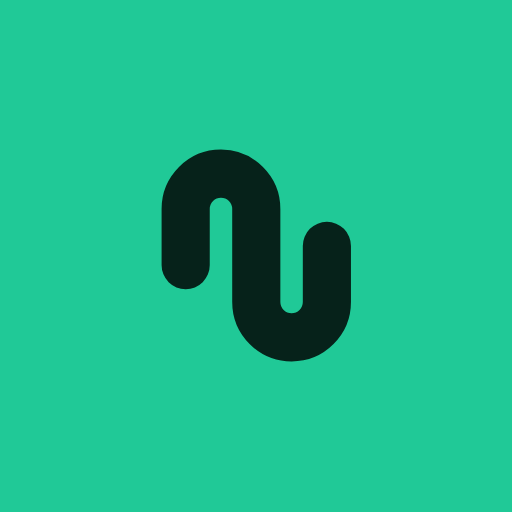
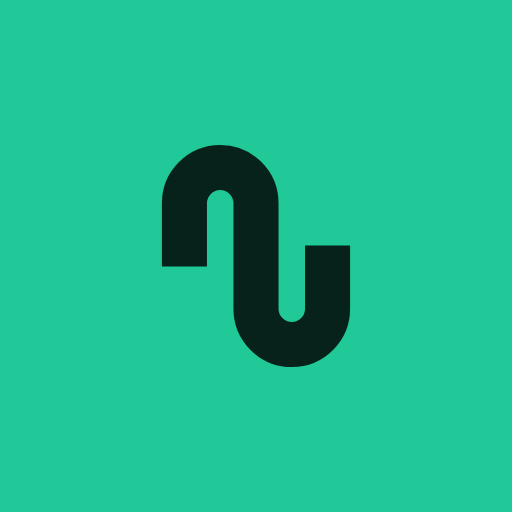
feat(brand): the stride mark at weight 260 with flat terminals
The mark becomes the falling wave of mark-nu-bold.html at 260/1000 em
with flat terminals, like Momo Trust Display's own, drawn in the font's
units (viewBox 1106 × 1300). packages/core and logo-mark.svg carry the
new geometry; a script (scripts/brand_icons.py) renders every icon from
it with headless Chrome. The web keeps the dark mark on the green; the
Android launcher icon and its adaptive layers take a white mark on the
green, and the splash a white mark on #111.

diff --git a/packages/core/src/brand/mark.ts b/packages/core/src/brand/mark.ts
@@ -1,21 +1,26 @@
 /**
  * The Zankup mark (docs/brand/README.md, section 2): the stride. The n and the u of the wordmark drawn as one
  * line that climbs, arches over, drops down the shared stem and arches back up: a stride (zancada), or a route
- * out and back. Built on the Momo Trust Display geometry at a heavier weight, with round terminals; one colour,
+ * out and back. Built on the Momo Trust Display geometry (font units: stems to the x-height, 206-unit arches) at
+weight 260/1000 em, with flat terminals like the typeface's; one colour,
  * it always takes the theme's foreground (`currentColor`). The single source for the PWA (CSS mask or inline
  * SVG) and the Android app (SVG path data).
  *
  * Kept identical to docs/brand/assets/logo-mark.svg by a test.
  */
 
-export const MARK_VIEWBOX = { width: 120, height: 134 } as const;
+export const MARK_VIEWBOX = { width: 1106, height: 1300 } as const;
 
-/** Visual bounds inside the viewBox: one unit of margin on every side, so the mark is centred on the viewBox centre (60, 67). */
-export const MARK_BOUNDS = { minX: 1, minY: 1, maxX: 119, maxY: 133 } as const;
+/** Visual bounds inside the viewBox: ten units of margin on every side, so the mark is centred on the viewBox centre (553, 650). */
+export const MARK_BOUNDS = { minX: 10, minY: 10, maxX: 1096, maxY: 1290 } as const;
 
 export const MARK_SHAPES = {
   /** One stroke: left stem up, arch over (the n), shared stem down, arch under (the u), right stem up. */
-  path: { d: 'M16 73 V38 A22 22 0 0 1 60 38 V96 A22 22 0 0 0 104 96 V61', strokeWidth: 30 },
+  path: {
+    d: 'M140 710 V346 A206 206 0 0 1 553 346 V954 A206 206 0 0 0 966 954 V590',
+    strokeWidth: 260,
+    linecap: 'butt',
+  },
 } as const;
 
 /** The mark as an SVG document in one colour (default `currentColor`). */
@@ -25,7 +30,7 @@ export function markSvg(color = 'currentColor', label = 'Zankup'): string {
     `<svg xmlns="http://www.w3.org/2000/svg" viewBox="0 0 ${MARK_VIEWBOX.width} ${MARK_VIEWBOX.height}"` +
     ` role="img" aria-label="${label}">` +
     `<path d="${path.d}" fill="none" stroke="${color}" stroke-width="${path.strokeWidth}"` +
-    ` stroke-linecap="round" stroke-linejoin="round"/>` +
+    ` stroke-linecap="${path.linecap}"/>` +
     `</svg>`
   );
 }

diff --git a/packages/core/src/brand/brand.test.ts b/packages/core/src/brand/brand.test.ts
@@ -3,7 +3,7 @@ import { describe, expect, it } from 'vitest';
 import source from '../../../../docs/brand/assets/logo-mark.svg?raw';
 import wordmarkSource from '../../../../docs/brand/assets/wordmark.svg?raw';
 import { themes, THEMES } from '../tokens';
-import { MARK_SHAPES, markMaskUrl, markSvg } from './mark';
+import { MARK_SHAPES, MARK_VIEWBOX, markMaskUrl, markSvg } from './mark';
 import { WORDMARK_PATH, WORDMARK_VIEWBOX, wordmarkSvg } from './wordmark';
 
 const attrs = (tag: string, from = source) => {
@@ -30,7 +30,8 @@ describe('brand mark', () => {
     const path = attrs('path');
     expect(path.d).toBe(MARK_SHAPES.path.d);
     expect(Number(path['stroke-width'])).toBe(MARK_SHAPES.path.strokeWidth);
-    expect(path['stroke-linecap']).toBe('round');
+    expect(path['stroke-linecap']).toBe(MARK_SHAPES.path.linecap);
+    expect(source).toContain(`viewBox="0 0 ${MARK_VIEWBOX.width} ${MARK_VIEWBOX.height}"`);
   });
 
   it('is one colour and can be used as a CSS mask', () => {

diff --git a/scripts/brand_icons.py b/scripts/brand_icons.py
@@ -1,0 +1,116 @@
+"""Renders every icon of the brand from the mark's geometry (docs/brand/README.md, section 6).
+
+The geometry comes from packages/core/src/brand/mark.ts (MARK_VIEWBOX and MARK_SHAPES), so the icons never
+drift from the mark the apps draw. PNGs are rendered with headless Chrome, as before; run it whenever the
+mark changes instead of editing the images:
+
+    python3 scripts/brand_icons.py
+"""
+
+from __future__ import annotations
+
+import re
+import subprocess
+import tempfile
+from pathlib import Path
+
+ROOT = Path(__file__).resolve().parent.parent
+MARK_TS = (ROOT / "packages/core/src/brand/mark.ts").read_text()
+
+GREEN = "#20c997"  # dark-theme accent: the icon background
+DARK = "#06221a"  # its accentFg: the mark on the web's icons
+WHITE = "#ffffff"  # the mark on the Android app's icons and splash
+
+WIDTH, HEIGHT = (
+    float(n) for n in re.search(r"MARK_VIEWBOX = \{ width: (\d+), height: (\d+) \}", MARK_TS).groups()
+)
+PATH_D = re.search(r"d: '([^']+)'", MARK_TS).group(1)
+STROKE = re.search(r"strokeWidth: (\d+)", MARK_TS).group(1)
+CAP = re.search(r"linecap: '(\w+)'", MARK_TS).group(1)
+
+
+def mark(color: str, size: float, height: float) -> str:
+    """The mark `height` px high (its viewBox, margin included), centred on a `size` canvas."""
+    scale = height / HEIGHT
+    x, y = (size - WIDTH * scale) / 2, (size - height) / 2
+    return (
+        f'<g transform="translate({x:.3f} {y:.3f}) scale({scale:.6f})">'
+        f'<path d="{PATH_D}" fill="none" stroke="{color}" stroke-width="{STROKE}" stroke-linecap="{CAP}"/>'
+        "</g>"
+    )
+
+
+def icon(size: int, *, color: str, share: float, background: str | None, radius: float = 0) -> str:
+    """An SVG document: the mark at `share` of the height, on a (rounded) square or on nothing."""
+    back = (
+        f'<rect width="{size}" height="{size}" rx="{size * radius:.2f}" fill="{background}"/>'
+        if background
+        else ""
+    )
+    return (
+        f'<svg xmlns="http://www.w3.org/2000/svg" width="{size}" height="{size}" viewBox="0 0 {size} {size}">'
+        f"{back}{mark(color, size, size * share)}</svg>"
+    )
+
+
+def png(svg: str, size: int, out: Path) -> None:
+    """Screenshots the SVG with headless Chrome, on a transparent page, at exactly size by size."""
+    with tempfile.TemporaryDirectory() as tmp:
+        page = Path(tmp) / "icon.html"
+        page.write_text(
+            "<!doctype html><style>html,body{margin:0;background:transparent}svg{display:block}</style>" + svg
+        )
+        subprocess.run(
+            [
+                "google-chrome",
+                "--headless=new",
+                "--disable-gpu",
+                "--hide-scrollbars",
+                "--force-device-scale-factor=1",
+                "--default-background-color=00000000",
+                f"--window-size={size},{size}",
+                f"--screenshot={out}",
+                page.as_uri(),
+            ],
+            check=True,
+            capture_output=True,
+        )
+
+
+def main() -> None:
+    brand = ROOT / "docs/brand/assets"
+    web = ROOT / "apps/web/public"
+    mobile = ROOT / "apps/mobile/assets"
+
+    # The mark itself, black on transparent: the source the test compares with mark.ts.
+    (brand / "logo-mark.svg").write_text(
+        f'<svg xmlns="http://www.w3.org/2000/svg" viewBox="0 0 {WIDTH:g} {HEIGHT:g}" role="img"'
+        ' aria-label="Zankup">\n'
+        f'  <path d="{PATH_D}" fill="none" stroke="#000" stroke-width="{STROKE}" stroke-linecap="{CAP}"/>\n'
+        "</svg>\n"
+    )
+    favicon = icon(64, color=DARK, share=0.6, background=GREEN, radius=14 / 64) + "\n"
+    for folder in (brand, web):
+        (folder / "favicon.svg").write_text(favicon)
+
+    # The web app (PWA): the dark mark on the green, as on the sign-in panel.
+    for folder in (brand, web):
+        png(icon(192, color=DARK, share=0.6, background=GREEN, radius=0.219), 192, folder / "icon-192.png")
+        png(icon(512, color=DARK, share=0.6, background=GREEN, radius=0.219), 512, folder / "icon-512.png")
+        png(icon(512, color=DARK, share=0.44, background=GREEN), 512, folder / "icon-maskable-512.png")
+        png(icon(180, color=DARK, share=0.6, background=GREEN), 180, folder / "apple-touch-icon-180.png")
+
+    # The Android app: the white mark on the green; the adaptive layers keep it in the 66 % safe zone.
+    png(icon(1024, color=WHITE, share=0.6, background=GREEN), 1024, mobile / "icon.png")
+    plain = (
+        '<svg xmlns="http://www.w3.org/2000/svg" width="512" height="512">'
+        f'<rect width="512" height="512" fill="{GREEN}"/></svg>'
+    )
+    png(plain, 512, mobile / "android-icon-background.png")
+    png(icon(512, color=WHITE, share=0.46, background=None), 512, mobile / "android-icon-foreground.png")
+    png(icon(432, color=WHITE, share=0.46, background=None), 432, mobile / "android-icon-monochrome.png")
+    png(icon(1024, color=WHITE, share=0.56, background=None), 1024, mobile / "splash-icon.png")
+
+
+if __name__ == "__main__":
+    main()

diff --git a/docs/brand/README.md b/docs/brand/README.md
@@ -21,27 +21,27 @@ Zankup is the product name that replaces the working name OpenSport. This docume
 
 ## 2. Mark
 
-The **stride**: the n and the u of the wordmark drawn as one line that climbs, arches over, drops down the shared stem and arches back up. A *zancada*, and a route out and back. It comes from the letters the way Strava's chevron comes from its a's: in Momo Trust Display the n is exactly the u turned 180°, so the two letters compose into one stroke. Decided on 9 November 2026 from the exploration in `exploration/zankup/mark-nu*.html`: the falling wave, at the heaviest weight that stays open at 16 px, with round terminals like the earlier Z mark.
+The **stride**: the n and the u of the wordmark drawn as one line that climbs, arches over, drops down the shared stem and arches back up. A *zancada*, and a route out and back. It comes from the letters the way Strava's chevron comes from its a's: in Momo Trust Display the n is exactly the u turned 180°, so the two letters compose into one stroke. Decided on 9 November 2026 from the exploration in `exploration/zankup/mark-nu*.html`, and revised the same day after `mark-nu-bold.html`: the falling wave at weight 260 with flat terminals, like the typeface's own (`exploration/zankup/mark-nu-zancada-desc-plano-260.svg`).
 
 ![Zankup mark](assets/logo-mark.svg)
 
-Geometry (viewBox `0 0 120 134`, one colour, one stroke):
+Geometry (viewBox `0 0 1106 1300`, in the font's units, one colour, one stroke):
 
 ```svg
-<path d="M16 73 V38 A22 22 0 0 1 60 38 V96 A22 22 0 0 0 104 96 V61" fill="none" stroke="currentColor" stroke-width="30" stroke-linecap="round" stroke-linejoin="round"/>
+<path d="M140 710 V346 A206 206 0 0 1 553 346 V954 A206 206 0 0 0 966 954 V590" fill="none" stroke="currentColor" stroke-width="260" stroke-linecap="butt"/>
 ```
 
-Built on the Momo Trust Display lower case: stems to the x-height, semicircular arches, the n and the u sharing a stem, the u half a body lower. The stroke is 300/1000 em (the font's own is 162) and the counter 14 units, the bold cut the typeface does not have. Visual bounds are x 1 to 119 and y 1 to 133, so the mark is centred on the viewBox centre (60, 67).
+Built on the Momo Trust Display lower case: stems to the x-height, semicircular arches (radius 206), the n and the u sharing a stem, the u half a body (450 units) lower. The stroke is 260/1000 em (the font's own is 162) and the counter 153 units, the bold cut the typeface does not have. Visual bounds are x 10 to 1096 and y 10 to 1290, so the mark is centred on the viewBox centre (553, 650).
 
 Rules:
 
 - One colour only. The mark takes the foreground colour of the theme it sits on (`fg` on surfaces, `accentFg` on the accent). Render it as a CSS mask over `currentColor`, as the web app's `.mark` class does, or as an inline SVG with `currentColor`. The Android app draws the same path with Skia (`apps/mobile/src/Lockup.tsx`), from the geometry exported by `packages/core`.
 - Minimum size 16 px high. At that size the counters close to slits; the silhouette still reads as the wave.
-- Clear space: at least the stroke width (30/134 of the height) on every side.
-- Do not rotate, mirror, outline, add gradients or shadows, change the stroke weight, flatten the terminals, separate the two arches or add a third.
+- Clear space: at least the stroke width (260/1300 of the height) on every side.
+- Do not rotate, mirror, outline, add gradients or shadows, change the stroke weight, round the terminals, separate the two arches or add a third.
 - Do not use the bare letters "nu" from any typeface as the symbol: the mark is the two letters at a weight and an offset the font does not have, and that is what makes it a symbol.
 
-Kept alternatives, not for production: `assets/logo-mark-z.svg` (the earlier mark, a Z walked bottom-up from a start ring whose last stroke turns back and points up, internal name "F1"), `assets/logo-mark-z4.svg` (that Z without the ring), `assets/logo-mark-flat.svg` and `assets/logo-mark-sharp.svg` (flat terminals). The rising wave, the chain links, the padlock and the open ring from the same round stay in `exploration/zankup/`.
+Kept alternatives, not for production: the round-terminal stride at weight 300 that shipped first (`exploration/zankup/mark-nu-zancada-desc-redondo-300.svg`), `assets/logo-mark-z.svg` (the earlier mark, a Z walked bottom-up from a start ring whose last stroke turns back and points up, internal name "F1"), `assets/logo-mark-z4.svg` (that Z without the ring), `assets/logo-mark-flat.svg` and `assets/logo-mark-sharp.svg` (flat terminals). The rising wave, the chain links, the padlock and the open ring from the same round stay in `exploration/zankup/`.
 
 ## 3. Wordmark
 
@@ -74,7 +74,8 @@ The brand has no colour of its own beyond the product tokens in `packages/core/s
 | Mark and wordmark on surfaces | `fg` #17191a | `fg` #eceeed | `fg` #f2f2f2 |
 | Mark and wordmark on the accent | `accentFg` #ffffff | `accentFg` #06221a | `accentFg` #001a12 |
 | Accent | #0b8f6a | #20c997 | #38d9a9 |
-| App icons | `accentFg` mark #06221a on the dark-theme accent #20c997, as on the sign-in panel | | |
+| Web icons (favicon, PWA) | `accentFg` mark #06221a on the dark-theme accent #20c997, as on the sign-in panel | | |
+| Android app icon and splash | White mark on #20c997 (launcher, adaptive layers); white on #111 (splash) | | |
 
 ## 6. Assets
 
@@ -90,7 +91,7 @@ All in `docs/brand/assets/`:
 | `icon-maskable-512.png` | Android maskable icon, mark inside the 80 % safe zone |
 | `apple-touch-icon-180.png` | iOS home-screen icon |
 
-The Expo app's icons (`apps/mobile/assets/`: `icon.png`, the Android adaptive layers and `splash-icon.png`) come from the same geometry. All the PNGs are rendered from the SVG path above with Chromium; regenerate them from the path when the mark changes rather than editing them.
+The Expo app's icons (`apps/mobile/assets/`: `icon.png`, the Android adaptive layers and `splash-icon.png`) come from the same geometry, with the mark in white. Every icon, `logo-mark.svg` and `favicon.svg` are generated by `scripts/brand_icons.py` from `packages/core/src/brand/mark.ts` (PNGs rendered with headless Chrome): run it when the mark changes rather than editing them.
 | `manifest.webmanifest` | PWA manifest with name, colours and the icons above |
 
 Everything here is an original design made for the project; nothing is traced from third-party material. The earlier mountain mark in `docs/prototypes/assets/logo-mark.svg` was traced from a template and **must not ship**: replace it when implementing this guide.
@@ -108,7 +109,7 @@ Two pieces of work, tracked separately. Do the rename only after the domain and 
 3. Load Momo Trust Display for brand text only, with the system stack as fallback.
 4. Check legibility at 16 px in every theme in `tokens.json` (light, dark, oled, and any high-contrast theme).
 5. Delete or replace `docs/prototypes/assets/` (the traced mountain and its icons) and the prototype's `.mark` mask URL.
-6. Expo: adaptive icon from the same mark, #06221a on #20c997 (monochrome layer white, Android tints it); splash, white mark on #111.
+6. Expo: adaptive icon from the same mark, white on #20c997 (monochrome layer white, Android tints it); splash, white mark on #111.
 
 **Status (9 November 2026):** done for the stride mark. The web app shows the vector wordmark from `packages/core` in the header and on the sign-in, setup, recovery and shared pages, and ships the mark as favicon, PWA icons and manifest; the Android app draws the same wordmark with Skia on sign-in and the lock screen and takes its launcher icon, adaptive layers and splash from `apps/mobile/assets/`. The mark no longer appears inside either app. The prototypes in `docs/prototypes/` keep the traced mountain and are not shipped.
 
@@ -142,4 +143,4 @@ The old volume (`opensport_pgdata`) can be removed with `docker volume rm opensp
 
 ## 8. Exploration
 
-The decision trail is in `exploration/`: `mountain/` holds the first logo round (mountain and switchback trail, candidate N1), `zankup/` holds the Z rounds, the fusion with the start ring, the wordmark comparisons, and `wordmark-n-inverted-u.*`: the wordmark built from the Momo Trust Display outlines with the N replaced by the U turned 180° (and, as a second column, flipped vertically), in the three cases, in the lock-up and at small sizes, plus one vector SVG per case (`wordmark-n-inverted-u-{caps,title,lower}.svg`). `mark-nu.*` is the symbol round built from the same two letters: six compositions of the n and u (rising and falling wave, links, padlock, open ring, ligature), each as a symbol, as an app icon, at 16 to 32 px and in the lock-up, with one SVG per candidate (`mark-nu-*.svg`). `mark-nu-bold.*` takes the two waves to heavier weights: Momo has a single weight, so the n and u are rebuilt on its geometry as a stroke of 220, 260, 300 and 340 thousandths of an em, with flat terminals like the font and round ones like the Z mark (`mark-nu-zancada-*.svg`). From that sheet the falling wave at 300 with round terminals became the mark (section 2). Each `comparison-*.png` is a rendered sheet; the matching `.html` regenerates it in a browser. The working page with every naming check (domains via registry RDAP, PyPI, npm, GitHub, app stores) lives outside the repo.
+The decision trail is in `exploration/`: `mountain/` holds the first logo round (mountain and switchback trail, candidate N1), `zankup/` holds the Z rounds, the fusion with the start ring, the wordmark comparisons, and `wordmark-n-inverted-u.*`: the wordmark built from the Momo Trust Display outlines with the N replaced by the U turned 180° (and, as a second column, flipped vertically), in the three cases, in the lock-up and at small sizes, plus one vector SVG per case (`wordmark-n-inverted-u-{caps,title,lower}.svg`). `mark-nu.*` is the symbol round built from the same two letters: six compositions of the n and u (rising and falling wave, links, padlock, open ring, ligature), each as a symbol, as an app icon, at 16 to 32 px and in the lock-up, with one SVG per candidate (`mark-nu-*.svg`). `mark-nu-bold.*` takes the two waves to heavier weights: Momo has a single weight, so the n and u are rebuilt on its geometry as a stroke of 220, 260, 300 and 340 thousandths of an em, with flat terminals like the font and round ones like the Z mark (`mark-nu-zancada-*.svg`). From that sheet the falling wave at 300 with round terminals became the mark first, and then the falling wave at 260 with flat terminals (section 2). Each `comparison-*.png` is a rendered sheet; the matching `.html` regenerates it in a browser. The working page with every naming check (domains via registry RDAP, PyPI, npm, GitHub, app stores) lives outside the repo.
